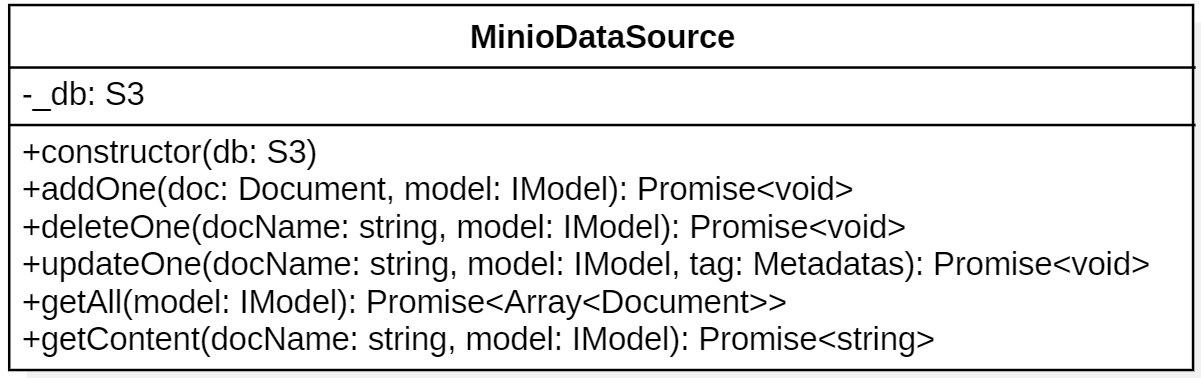
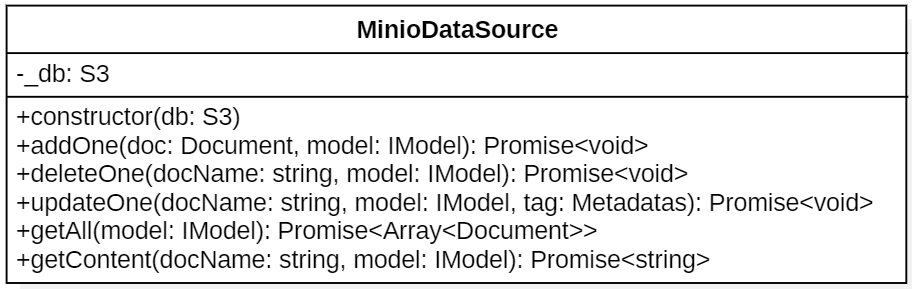
Aggiornamento generale finale sezione backend

Changed region(s): [[0.0, 0.0, 1.0, 0.9965], [0.3991, 0.872, 0.7982, 0.9343]]

diff --git a/3-PB/Documentazione_esterna/Specifica_architetturale/archback.tex b/3-PB/Documentazione_esterna/Specifica_architetturale/archback.tex
@@ -9,7 +9,7 @@ Una volta terminate le operazioni nel data source, il controllo torna alla repos
 
 \begin{figure}[h!]
     \centering  
-    \includegraphics[width=0.7\textwidth]{backendview.png}
+    \includegraphics[width=0.95\textwidth]{backendview.png}
     \caption{UML introduttivo delle classi del back-end}
 \end{figure}
 
@@ -58,10 +58,10 @@ Questa funzione asincrona lato server effettua una chiamata a GetDocumentContent
 \begin{itemize}[itemsep=-4pt]
     \item \textit{docName: string};
     \item \textit{model: IModel};
-    \item \textit{visibility: boolean}.
+    \item \textit{updatedMetadas: Metadatas}.
 \end{itemize}
 \textbf{Descrizione}\\
-Questa funzione asincrona lato server effettua una chiamata a UpdateDocumentController, passando i parametri docName, model e visibility, che rappresentano il nome del documento da aggiornare, il modello che presenta tale documento e il nuovo valore che deve avere il tag di visibilità del documento. Gestisce la modifica delle informazioni inviando i dati al controller e si occupa di gestire eventuali errori che si possono verificare durante il processo.
+Questa funzione asincrona lato server effettua una chiamata a UpdateDocumentController, passando i parametri docName, model e updatedMetadas, che rappresentano il nome del documento da aggiornare, il modello che presenta tale documento e il nuovo valore che deve avere il tag di visibilità del documento. Gestisce la modifica delle informazioni inviando i dati al controller e si occupa di gestire eventuali errori che si possono verificare durante il processo.
 
 \subsubsection{addChat}
 \textbf{Parametri}
@@ -169,10 +169,10 @@ Questa classe controller, chiamata tramite la server action deleteDocument, gest
 \end{itemize}
 \textbf{Metodi}
 \begin{itemize}
-    \item \textit{handle(docName: string, model: IModel, visibility: boolean): Promise<Response>}.
+    \item \textit{handle(docName: string, model: IModel, updatedMetadas: Metadatas): Promise<Response>}.
 \end{itemize}
 \textbf{Descrizione}\\
-Questa classe controller, chiamata tramite la server action updateDocument, gestisce la chiamata al UpdateDocumentUsecase per aggiornare i tag e i metadati associati ad un documento, passando una \textit{string} docName, una \textit{string} model e un \textit{booleano} visibility, che rappresentano il nome del documento da aggiornare, il modello di appartenenza e il nuovo valore del tag di visibilità associato.\\ \\
+Questa classe controller, chiamata tramite la server action updateDocument, gestisce la chiamata al UpdateDocumentUsecase per aggiornare i tag e i metadati associati ad un documento, passando una \textit{string} docName, una \textit{string} model e dei metadati updatedMetadas, che rappresentano il nome del documento da aggiornare, il modello di appartenenza e il nuovo valore del tag di visibilità associato.\\ \\
 \textbf{Dipendenze}
 \begin{itemize}
     \item UpdateDocumentUsecase.
@@ -411,11 +411,12 @@ Questa classe controller, chiamata tramite la server action getChats, gestisce l
     \item \textit{execute(file: File, model: IModel)}.
 \end{itemize}
 \textbf{Descrizione}\\
-Questo use case, chiamato dal AddDocumentController, contiene la business logic relativa alle operazioni per aggiungere un nuovo documento nel sistema. Ricevuto il file e la \textit{string} model, gestisce la chiamata al DocumentRepository per aggiungere il nuovo documento. Dopo aver effettuato il parsing del contenuto del documento e averlo diviso per pagine, viene effettuato l'embedding del testo utilizzando l'embedding function determinata dal modello desiderato. Una volta completato questo processo, mapando gli embedding con il nome del documento, i metadati associati e il suo file, viene chiamato anche l'EmbeddingRepository per lo storage dei vettori sul database vettoriale. \\ \\
+Questo use case, chiamato dal AddDocumentController, contiene la business logic relativa alle operazioni per aggiungere un nuovo documento nel sistema. Ricevuto il file e la \textit{string} model, gestisce la chiamata al DocumentRepository per aggiungere il nuovo documento. Dopo aver effettuato il parsing del contenuto del documento e averlo diviso per pagine, viene effettuato l'embedding del testo utilizzando l'embedding function determinata dal modello desiderato. Una volta completato questo processo, mapando gli embedding con il nome del documento, i metadati associati e il suo file, viene chiamato anche l'EmbeddingRepository per lo storage dei vettori sul database vettoriale.\\
+Presenta un riferimento a delle interfacce IDocumentRepository e IEmbeddingRepository, le cui implementazioni concrete sono DocumentRepository e EmbeddingRepository, che espongono i metodi per lavorare sulle fonti dei dati presenti nel database.\\ \\
 \textbf{Dipendenze}
 \begin{itemize}[itemsep=-4pt]
-    \item DocumentRepository;
-    \item EmbeddingRepository.
+    \item IDocumentRepository;
+    \item IEmbeddingRepository.
 \end{itemize}
 \textbf{Requisiti associati}
 \begin{itemize}[itemsep=-4pt]
@@ -448,11 +449,12 @@ Questo use case, chiamato dal AddDocumentController, contiene la business logic 
 \end{itemize}
 \textbf{Descrizione}\\
 Questo use case, chiamato dal DeleteDocumentController, contiene la business logic relativa alle operazioni per eliminare uno specifico documento dal sistema. Ricevute le \textit{string} docName e model, gestisce la chiamata al DocumentRepository e all'EmbeddingRepository per rimuovere nuovo documento.\\
-Dopo aver effettuato la chiamata al DocumentRepository per richiedere l'eliminazione del documento dal database MinIO, richiede l'id degli embedding da rimuovere all'EmbeddingRepository, per poi richiedere l'eliminazione dei vettori identificati da essi alla medesima classe repository. \\ \\
+Dopo aver effettuato la chiamata al DocumentRepository per richiedere l'eliminazione del documento dal database MinIO, richiede l'id degli embedding da rimuovere all'EmbeddingRepository, per poi richiedere l'eliminazione dei vettori identificati da essi alla medesima classe repository.\\
+Presenta un riferimento a delle interfacce IDocumentRepository e IEmbeddingRepository, le cui implementazioni concrete sono DocumentRepository e EmbeddingRepository, che espongono i metodi per lavorare sulle fonti dei dati presenti nel database. \\ \\
 \textbf{Dipendenze}
 \begin{itemize}[itemsep=-4pt]
-    \item DocumentRepository;
-    \item EmbeddingRepository.
+    \item IDocumentRepository;
+    \item IEmbeddingRepository.
 \end{itemize}
 \textbf{Requisiti associati}
 \begin{itemize}
@@ -477,15 +479,16 @@ Dopo aver effettuato la chiamata al DocumentRepository per richiedere l'eliminaz
 \end{itemize}
 \textbf{Metodi}
 \begin{itemize}
-    \item \textit{execute(docName: string, model: IModel, visibility: boolean)}.
+    \item \textit{execute(docName: string, model: IModel, updatedMetadas: Metadatas)}.
 \end{itemize}
 \textbf{Descrizione}\\
-Questo use case, chiamato dal UpdateDocumentController, contiene la business logic relativa alle operazioni per aggiornare i tag e i metadati, relativi alla visibilità, di uno specifico documento. Ricevute le \textit{string} docName e model e il valore \textit{booleano} visibility, gestisce la chiamata al DocumentRepository e all'EmbeddingRepository per aggiornare i valori.\\
-Dopo aver effettuato la chiamata al DocumentRepository per richiedere l'aggiornamento del tag di visibilità del documento nel database MinIO, richiede l'id degli embedding da modificare all'EmbeddingRepository, per poi richiedere la modifica del metadato visibility dei vettori identificati da essi alla medesima classe repository. \\ \\
+Questo use case, chiamato dal UpdateDocumentController, contiene la business logic relativa alle operazioni per aggiornare i tag e i metadati, relativi alla visibilità, di uno specifico documento. Ricevute le \textit{string} docName e model e i nuovi metadati updatedMetadas, gestisce la chiamata al DocumentRepository e all'EmbeddingRepository per aggiornare i valori.\\
+Dopo aver effettuato la chiamata al DocumentRepository per richiedere l'aggiornamento del tag di visibilità del documento nel database MinIO, richiede l'id degli embedding da modificare all'EmbeddingRepository, per poi richiedere la modifica del metadato visibility dei vettori identificati da essi alla medesima classe repository.\\
+Presenta un riferimento a delle interfacce IDocumentRepository e IEmbeddingRepository, le cui implementazioni concrete sono DocumentRepository e EmbeddingRepository, che espongono i metodi per lavorare sulle fonti dei dati presenti nel database.\\ \\
 \textbf{Dipendenze}
 \begin{itemize}[itemsep=-4pt]
-    \item DocumentRepository;
-    \item EmbeddingRepository.
+    \item IDocumentRepository;
+    \item IEmbeddingRepository.
 \end{itemize}
 \textbf{Requisiti associati}
 \begin{itemize}[itemsep=-4pt]
@@ -515,10 +518,11 @@ Dopo aver effettuato la chiamata al DocumentRepository per richiedere l'aggiorna
     \item \textit{execute(docName: string, model: IModel)}.
 \end{itemize}
 \textbf{Descrizione}\\
-Questo use case, chiamato dal GetDocumentContentController, contiene la business logic relativa alle operazioni per ottenere il link di visualizzazione di uno specifico documento dal sistema. Ricevute le \textit{string} docName e model, gestisce la chiamata al DocumentRepository per recuperare tale informazione.\\ \\
+Questo use case, chiamato dal GetDocumentContentController, contiene la business logic relativa alle operazioni per ottenere il link di visualizzazione di uno specifico documento dal sistema. Ricevute le \textit{string} docName e model, gestisce la chiamata al DocumentRepository per recuperare tale informazione.\\
+Presenta un riferimento ad un'interfaccia IDocumentRepository , la cui implementazione concreta è DocumentRepository, che espone i metodi per lavorare sulle fonti dei dati presenti nel database.\\ \\
 \textbf{Dipendenze}
 \begin{itemize}
-    \item DocumentRepository.
+    \item IDocumentRepository.
 \end{itemize}
 \textbf{Requisiti associati}
 \begin{itemize}[itemsep=-4pt]
@@ -546,10 +550,11 @@ Questo use case, chiamato dal GetDocumentContentController, contiene la business
     \item \textit{execute(model: IModel) : Promise<Document[]>}.
 \end{itemize}
 \textbf{Descrizione}\\
-Questo use case, chiamato dal GetDocumentsController, contiene la business logic relativa alle operazioni per ottenere le informazioni dei documenti presenti nel sistema. Ricevuto il model, gestisce la chiamata al DocumentRepository per recuperare le informazioni dei documenti presenti in quello specifico modello.\\ \\
+Questo use case, chiamato dal GetDocumentsController, contiene la business logic relativa alle operazioni per ottenere le informazioni dei documenti presenti nel sistema. Ricevuto il model, gestisce la chiamata al DocumentRepository per recuperare le informazioni dei documenti presenti in quello specifico modello.\\
+Presenta un riferimento ad un'interfaccia IDocumentRepository , la cui implementazione concreta è DocumentRepository, che espone i metodi per lavorare sulle fonti dei dati presenti nel database.\\ \\
 \textbf{Dipendenze}
 \begin{itemize}
-    \item DocumentRepository.
+    \item IDocumentRepository.
 \end{itemize}
 \textbf{Requisiti associati}
 \begin{itemize}[itemsep=-4pt]
@@ -581,10 +586,11 @@ Questo use case, chiamato dal GetDocumentsController, contiene la business logic
     \item \textit{execute(messages: ICustomMessages): Promise<void>}.
 \end{itemize}
 \textbf{Descrizione}\\
-Questo use case, chiamato dal AddChatMessagesController, contiene la business logic relativa alle operazioni per aggiungere le informazioni dei messaggi scritti, definiti dall'\textit{ICustomMessages}. Ricevuto il messages, gestisce la chiamata al ChatRepository per richiedere il salvataggio del dato.\\ \\
+Questo use case, chiamato dal AddChatMessagesController, contiene la business logic relativa alle operazioni per aggiungere le informazioni dei messaggi scritti, definiti dall'\textit{ICustomMessages}. Ricevuto il messages, gestisce la chiamata al ChatRepository per richiedere il salvataggio del dato.\\
+Presenta un riferimento ad un'interfaccia IChatRepository , la cui implementazione concreta è ChatRepository, che espone i metodi per lavorare sulle fonti dei dati presenti nel database.\\ \\
 \textbf{Dipendenze}
 \begin{itemize}
-    \item ChatRepository.
+    \item IChatRepository.
 \end{itemize}
 \textbf{Requisiti associati}
 \begin{itemize}[itemsep=-4pt]
@@ -611,10 +617,11 @@ Questo use case, chiamato dal AddChatMessagesController, contiene la business lo
     \item \textit{execute(title: string): Promise<void>}.
 \end{itemize}
 \textbf{Descrizione}\\
-Questo use case, chiamato dal AddChatController, contiene la business logic relativa alle operazioni per aggiungere una nuova sessione di conversazione nel sistema, che avrà un nome definito dalla \textit{string} title. Ricevuto questo title, gestisce la chiamata al ChatRepository per richiedere la creazione della nuova sessione.\\ \\
+Questo use case, chiamato dal AddChatController, contiene la business logic relativa alle operazioni per aggiungere una nuova sessione di conversazione nel sistema, che avrà un nome definito dalla \textit{string} title. Ricevuto questo title, gestisce la chiamata al ChatRepository per richiedere la creazione della nuova sessione.\\
+Presenta un riferimento ad un'interfaccia IChatRepository , la cui implementazione concreta è ChatRepository, che espone i metodi per lavorare sulle fonti dei dati presenti nel database.\\ \\
 \textbf{Dipendenze}
 \begin{itemize}
-    \item ChatRepository.
+    \item IChatRepository.
 \end{itemize}
 \textbf{Requisiti associati}
 \begin{itemize}
@@ -641,10 +648,11 @@ Questo use case, chiamato dal AddChatController, contiene la business logic rela
     \item \textit{execute(): Promise<number>.}
 \end{itemize}
 \textbf{Descrizione}\\
-Questo use case, chiamato dal DeleteAllChatController, contiene la business logic relativa alle operazioni per eliminare dal database tutte le informazioni relative alle sessioni di conversazione attive, incluse le chat history ad esse associate.\\ \\
+Questo use case, chiamato dal DeleteAllChatController, contiene la business logic relativa alle operazioni per eliminare dal database tutte le informazioni relative alle sessioni di conversazione attive, incluse le chat history ad esse associate.\\
+Presenta un riferimento ad un'interfaccia IChatRepository , la cui implementazione concreta è ChatRepository, che espone i metodi per lavorare sulle fonti dei dati presenti nel database.\\ \\
 \textbf{Dipendenze}
 \begin{itemize}
-    \item ChatRepository.
+    \item IChatRepository.
 \end{itemize}
 \textbf{Requisiti associati}
 \begin{itemize}[itemsep=-4pt]
@@ -672,10 +680,11 @@ Questo use case, chiamato dal DeleteAllChatController, contiene la business logi
     \item \textit{execute(id: number): Promise<void>}.
 \end{itemize}
 \textbf{Descrizione}\\
-Questo use case, chiamato dal DeleteChatController, contiene la business logic relativa alle operazioni per eliminare dal database tutte le informazioni relative ad una particolare sessione di conversazione, definita dal \textit{number} id, e alla sua chat history. Ricevuto l'id, gestisce la chiamata al ChatRepository per richiedere l'eliminazione della sessione.\\ \\
+Questo use case, chiamato dal DeleteChatController, contiene la business logic relativa alle operazioni per eliminare dal database tutte le informazioni relative ad una particolare sessione di conversazione, definita dal \textit{number} id, e alla sua chat history. Ricevuto l'id, gestisce la chiamata al ChatRepository per richiedere l'eliminazione della sessione.\\
+Presenta un riferimento ad un'interfaccia IChatRepository , la cui implementazione concreta è ChatRepository, che espone i metodi per lavorare sulle fonti dei dati presenti nel database.\\ \\
 \textbf{Dipendenze}
 \begin{itemize}
-    \item ChatRepository.
+    \item IChatRepository.
 \end{itemize}
 \textbf{Requisiti associati}
 \begin{itemize}[itemsep=-4pt]
@@ -703,10 +712,11 @@ Questo use case, chiamato dal DeleteChatController, contiene la business logic r
     \item \textit{execute(id: number): Promise<allMessages: Message[], source: MessageSource>}.
 \end{itemize}
 \textbf{Descrizione}\\
-Questo use case, chiamato dal GetChatMessagesController, contiene la business logic relativa alle operazioni per ottenere dal database la chat history relativa ad una particolare sessione di conversazione, definita dal \textit{number} id. Ricevuto l'id, gestisce la chiamata al ChatRepository per il recupero dei messaggi.\\ \\
+Questo use case, chiamato dal GetChatMessagesController, contiene la business logic relativa alle operazioni per ottenere dal database la chat history relativa ad una particolare sessione di conversazione, definita dal \textit{number} id. Ricevuto l'id, gestisce la chiamata al ChatRepository per il recupero dei messaggi.\\
+Presenta un riferimento ad un'interfaccia IChatRepository , la cui implementazione concreta è ChatRepository, che espone i metodi per lavorare sulle fonti dei dati presenti nel database.\\ \\
 \textbf{Dipendenze}
 \begin{itemize}
-    \item ChatRepository.
+    \item IChatRepository.
 \end{itemize}
 \textbf{Requisiti associati}
 \begin{itemize}
@@ -733,10 +743,11 @@ Questo use case, chiamato dal GetChatMessagesController, contiene la business lo
     \item \textit{execute(): Promise<Chat[]>}.
 \end{itemize}
 \textbf{Descrizione}\\
-Questo use case, chiamato dal GetChatsController, contiene la business logic relativa alle operazioni per ottenere dal database le informazioni relative alle sessioni di conversazione salvate e attive nel sistema.\\ \\
+Questo use case, chiamato dal GetChatsController, contiene la business logic relativa alle operazioni per ottenere dal database le informazioni relative alle sessioni di conversazione salvate e attive nel sistema.\\
+Presenta un riferimento ad un'interfaccia IChatRepository , la cui implementazione concreta è ChatRepository, che espone i metodi per lavorare sulle fonti dei dati presenti nel database.\\ \\
 \textbf{Dipendenze}
 \begin{itemize}
-    \item ChatRepository.
+    \item IChatRepository.
 \end{itemize}
 \textbf{Requisiti associati}
 \begin{itemize}
@@ -763,12 +774,13 @@ Questo use case, chiamato dal GetChatsController, contiene la business logic rel
 \begin{itemize}[itemsep=-4pt]
     \item \textit{addDocument(doc: Document, model: IModel): Promise<void>};
     \item \textit{deleteDocument(docName: string, model: IModel): Promise<void>};
-    \item \textit{updateDocument(docName: string, model: IModel, visibility: boolean): Promise<void>};
+    \item \textit{updateDocument(docName: string, model: IModel, tag: Metadatas): Promise<void>};
     \item \textit{getDocuments(model: IModel): Promise<Document[]>};
     \item \textit{getDocumentContent(docName: string, model: IModel): Promise<string>}. 
 \end{itemize}
 \textbf{Descrizione}\\
-La classe DocumentRepository, utilizzata dagli use cases AddDocument, DeleteDocument, UpdateDocument, GetDocumentContent e GetDocuments, espone i metodi con cui interfacciarsi alle fonti dei dati per il recupero dei dati necessari alla logica di business per aggiunta, rimozione, modifica e lettura dei documenti. Presenta un riferimento ad un'interfaccia IDocumentDataSource, la cui implementazione concreta è MinioDataSource che espone i metodi per lavorare sui dati presenti nel database.\\ \\
+La classe DocumentRepository, utilizzata dagli use cases AddDocument, DeleteDocument, UpdateDocument, GetDocumentContent e GetDocuments, espone i metodi con cui interfacciarsi alle fonti dei dati per il recupero dei dati necessari alla logica di business per aggiunta, rimozione, modifica e lettura dei documenti.\\
+Presenta un riferimento ad un'interfaccia IDocumentDataSource, la cui implementazione concreta è MinioDataSource che espone i metodi per lavorare sui dati presenti nel database.\\ \\
 \textbf{Dipendenze}
 \begin{itemize}
     \item IDocumentDataSource.
@@ -797,7 +809,8 @@ La classe DocumentRepository, utilizzata dagli use cases AddDocument, DeleteDocu
     \item \textit{getIdsEmbedding(docName: string, model: IModel): Promise<any>}.
 \end{itemize}
 \textbf{Descrizione}\\
-La classe EmbeddingRepository, utilizzata dagli use cases AddDocument e DeleteDocument, espone i metodi con cui interfacciarsi alle fonti dei dati per il recupero dei dati necessari all'aggiunta ed eliminazione degli embedding di documenti. Presenta un riferimento ad un'interfaccia IEmbeddingDataSource, la cui implementazione concreta è ChromaDataSource che espone i metodi per lavorare sui dati presenti nel vector database.\\ \\
+La classe EmbeddingRepository, utilizzata dagli use cases AddDocument e DeleteDocument, espone i metodi con cui interfacciarsi alle fonti dei dati per il recupero dei dati necessari all'aggiunta ed eliminazione degli embedding di documenti.\\
+Presenta un riferimento ad un'interfaccia IEmbeddingDataSource, la cui implementazione concreta è ChromaDataSource che espone i metodi per lavorare sui dati presenti nel vector database.\\ \\
 \textbf{Dipendenze}
 \begin{itemize}
     \item IEmbeddingDataSource.
@@ -830,7 +843,8 @@ La classe EmbeddingRepository, utilizzata dagli use cases AddDocument e DeleteDo
     \item \textit{getChats(): Promise<Chat[]>}.
 \end{itemize}
 \textbf{Descrizione}\\
-La classe ChatRepository, utilizzata dagli use cases AddChatMessages, AddChat, DeleteAllChat, DeleteChat, GetChatMessages e GetChats, espone i metodi con cui interfacciarsi alla fonte dei dati per il recupero delle informazioni necessarie alla logica di business per aggiunta, rimozione e recupero delle sessioni di conversazione e dei messaggi delle chat history ad esse associate. Presenta un riferimento ad un'interfaccia IChatDataSource, la cui implementazione concreta è PostgresDataSource che espone i metodi per lavorare sui dati presenti nel database.\\ \\
+La classe ChatRepository, utilizzata dagli use cases AddChatMessages, AddChat, DeleteAllChat, DeleteChat, GetChatMessages e GetChats, espone i metodi con cui interfacciarsi alla fonte dei dati per il recupero delle informazioni necessarie alla logica di business per aggiunta, rimozione e recupero delle sessioni di conversazione e dei messaggi delle chat history ad esse associate.\\
+Presenta un riferimento ad un'interfaccia IChatDataSource, la cui implementazione concreta è PostgresDataSource che espone i metodi per lavorare sui dati presenti nel database.\\ \\
 \textbf{Dipendenze}
 \begin{itemize}
     \item IChatDataSource.
@@ -838,10 +852,9 @@ La classe ChatRepository, utilizzata dagli use cases AddChatMessages, AddChat, D
 
 \begin{figure}[h!]
     \centering  
-    \includegraphics[width=0.7\textwidth]{ChatRepository.png}
+    \includegraphics[width=0.6\textwidth]{ChatRepository.png}
     \caption{UML della classe ChatRepository}
 \end{figure}
-
 \subsection{Data Sources} \label{subsec:datasources}
 \subsubsection{MinioDataSource}
 \textbf{Decoratori}
@@ -1004,7 +1017,7 @@ Sono definite due diverse tabelle: la tabella \textit{chat\_threads}, che rappre
     \includegraphics[width=0.8\textwidth]{postgresdb.png}
     \caption{Diagramma ER del database Postgres}
 \end{figure}
-
+\vspace{2cm}
 \begin{figure}[h!]
     \centering  
     \includegraphics[width=0.8\textwidth]{querypostgresdb.png}

diff --git a/3-PB/Documentazione_esterna/Specifica_architetturale/archlogica.tex b/3-PB/Documentazione_esterna/Specifica_architetturale/archlogica.tex
@@ -1,4 +1,4 @@
-\section{Architettura logica del prodotto} \label{sec:archlogica}
+\section{Logica del prodotto} \label{sec:archlogica}
 
 \begin{figure}[h!]
     \centering  
